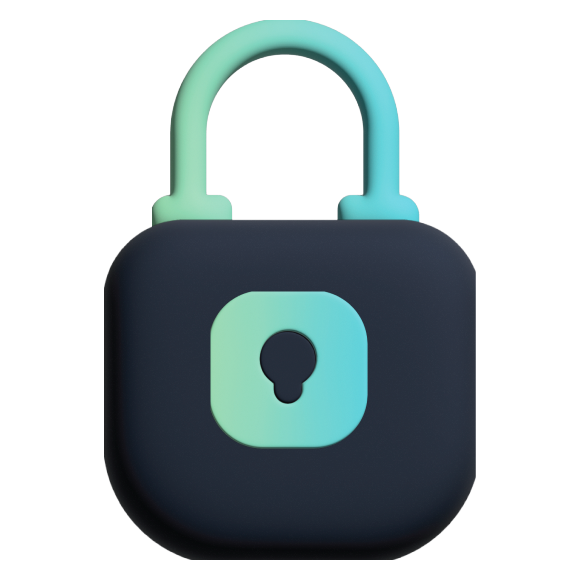
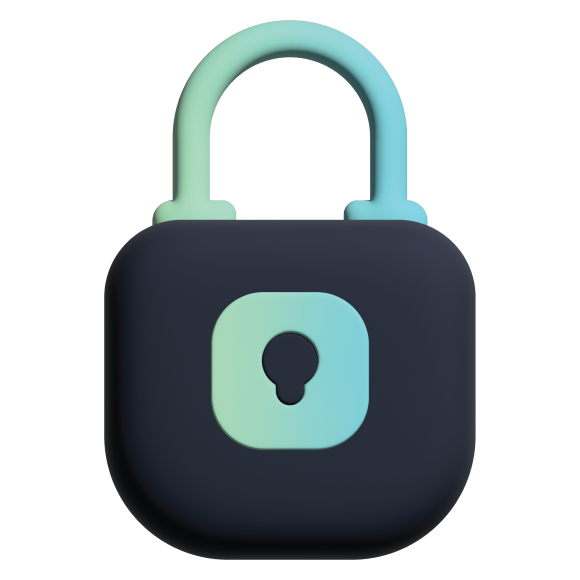
feat(ui): Standardise pages - Credential card details (#316)
* wip: card info rows & json

* fix: replace intro image

* fix: json nested info

* fix: json nested info responsive

* fix: add archive to page footer

* fix: footer background issue

* fix: unit tests errors

* fix: make card type optional

* fix: make card type optional

* fix: buttons color

* fix: sec btn border color

diff --git a/src/ui/components/CardDetailsElements/CardDetails.scss b/src/ui/components/CardDetailsElements/CardDetails.scss
@@ -56,15 +56,6 @@
       width: 100%;
       overflow: hidden;
       white-space: nowrap;
-      --mask: linear-gradient(
-        to right,
-        rgba(var(--ion-color-secondary-rgb)) 0,
-        rgba(var(--ion-color-secondary-rgb)) 85%,
-        rgba(0, 0, 0, 0.5) 90%,
-        rgba(0, 0, 0, 0) 100%
-      );
-      -webkit-mask: var(--mask);
-      mask: var(--mask);
 
       strong {
         text-transform: capitalize;
@@ -72,10 +63,9 @@
       }
     }
 
-    .card-details-json-column,
     .card-details-json-row {
-      width: 100%;
-      overflow: hidden;
+      display: flex;
+      flex-direction: row;
     }
 
     .card-details-attributes-id {
@@ -87,12 +77,18 @@
     }
 
     .card-details-json-nested {
-      margin-top: 1rem;
+      background-color: var(--ion-color-light-grey);
+      padding: 0.45rem 1rem;
 
-      strong {
-        border-left: 2px solid grey;
-        padding-left: 0.35rem;
-        margin-left: 1rem;
+      &:first-of-type {
+        margin-top: 1rem;
+        padding-top: 1rem;
+        border-radius: 1rem 1rem 0 0;
+      }
+
+      &:last-of-type {
+        padding-bottom: 1rem;
+        border-radius: 0 0 1rem 1rem;
       }
     }
 
@@ -113,6 +109,14 @@
         border-radius: 1rem;
         padding: 1.15rem;
 
+        > * {
+          min-height: 1.445rem;
+
+          &:not(:last-child) {
+            margin-bottom: 0.85rem;
+          }
+        }
+
         .card-details-info-block-line {
           display: flex;
 
@@ -120,10 +124,6 @@
             display: flex;
             flex-direction: column;
             justify-content: center;
-          }
-
-          &:not(:last-child) {
-            margin-bottom: 1rem;
           }
 
           .card-details-info-block-text-icon {
@@ -139,6 +139,20 @@
             width: 100%;
             overflow: hidden;
             white-space: nowrap;
+            --mask: linear-gradient(
+              to right,
+              rgba(var(--ion-color-secondary-rgb)) 0,
+              rgba(var(--ion-color-secondary-rgb)) 85%,
+              rgba(0, 0, 0, 0.5) 90%,
+              rgba(0, 0, 0, 0) 100%
+            );
+            -webkit-mask: var(--mask);
+            mask: var(--mask);
+          }
+        }
+
+        > .card-details-json-row {
+          > * {
             --mask: linear-gradient(
               to right,
               rgba(var(--ion-color-secondary-rgb)) 0,
@@ -194,13 +208,15 @@
           border-radius: 0.85rem;
           padding: 0.978rem;
 
-          .card-details-info-block-line {
-            height: 1.445rem;
+          > * {
+            min-height: 1.156rem;
 
             &:not(:last-child) {
-              margin-bottom: 0.85rem;
+              margin-bottom: 0.68rem;
             }
+          }
 
+          .card-details-info-block-line {
             .card-details-info-block-text-icon {
               font-size: 0.956rem;
             }

diff --git a/src/ui/pages/CredCardDetails/CredCardDetails.tsx b/src/ui/pages/CredCardDetails/CredCardDetails.tsx
@@ -58,6 +58,7 @@ import {
 } from "../../components/CardDetailsElements";
 import { CredentialDetails } from "../../../core/agent/services/credentialService.types";
 import "../../components/CardDetailsElements/CardDetails.scss";
+import { PageFooter } from "../../components/PageFooter";
 
 const CredCardDetails = () => {
   const pageId = "credential-card-details";
@@ -334,33 +335,27 @@ const CredCardDetails = () => {
                 />
               )}
             </CardDetailsBlock>
-            <IonButton
-              shape="round"
-              expand="block"
-              color="danger"
-              data-testid="card-details-delete-archive-button"
-              className="delete-button"
-              onClick={() => {
+            <PageFooter
+              pageId={pageId}
+              archiveButtonText={
+                !isArchived
+                  ? `${i18n.t("creds.card.details.button.archive")}`
+                  : ""
+              }
+              archiveButtonAction={() => {
                 setAlertDeleteArchiveIsOpen(true);
-                dispatch(
-                  setCurrentOperation(
-                    isArchived
-                      ? OperationType.DELETE_CREDENTIAL
-                      : OperationType.ARCHIVE_CREDENTIAL
-                  )
-                );
+                dispatch(setCurrentOperation(OperationType.ARCHIVE_CREDENTIAL));
               }}
-            >
-              <IonIcon
-                slot="icon-only"
-                size="small"
-                icon={isArchived ? trashOutline : archiveOutline}
-                color="primary"
-              />
-              {isArchived
-                ? i18n.t("creds.card.details.button.delete")
-                : i18n.t("creds.card.details.button.archive")}
-            </IonButton>
+              deleteButtonText={
+                isArchived
+                  ? `${i18n.t("creds.card.details.button.delete")}`
+                  : ""
+              }
+              deleteButtonAction={() => {
+                setAlertDeleteArchiveIsOpen(true);
+                dispatch(setCurrentOperation(OperationType.DELETE_CREDENTIAL));
+              }}
+            />
           </div>
           <CredsOptions
             optionsIsOpen={optionsIsOpen}

diff --git a/src/ui/components/PageFooter/PageFooter.tsx b/src/ui/components/PageFooter/PageFooter.tsx
@@ -1,5 +1,5 @@
 import { IonButton, IonIcon, IonToolbar } from "@ionic/react";
-import { trashOutline } from "ionicons/icons";
+import { archiveOutline, trashOutline } from "ionicons/icons";
 import { PageFooterProps } from "./PageFooter.types";
 import "./PageFooter.scss";
 
@@ -17,15 +17,15 @@ const PageFooter = ({
   tertiaryButtonText,
   tertiaryButtonAction,
   tertiaryButtonDisabled,
+  archiveButtonText,
+  archiveButtonAction,
+  archiveButtonDisabled,
   deleteButtonText,
   deleteButtonAction,
   deleteButtonDisabled,
 }: PageFooterProps) => {
   return (
-    <IonToolbar
-      color="light"
-      className="page-footer"
-    >
+    <IonToolbar className="page-footer">
       {primaryButtonText && primaryButtonAction && (
         <IonButton
           shape="round"
@@ -86,6 +86,25 @@ const PageFooter = ({
             />
           )}
           {tertiaryButtonText}
+        </IonButton>
+      )}
+      {archiveButtonText && archiveButtonAction && (
+        <IonButton
+          shape="round"
+          expand="block"
+          fill="clear"
+          className="archive-button"
+          data-testid={`archive-button${pageId ? `-${pageId}` : ""}`}
+          onClick={archiveButtonAction}
+          disabled={archiveButtonDisabled}
+        >
+          <IonIcon
+            slot="icon-only"
+            size="small"
+            icon={archiveOutline}
+            color="primary"
+          />
+          {archiveButtonText}
         </IonButton>
       )}
       {deleteButtonText && deleteButtonAction && (

diff --git a/src/ui/styles/style.scss b/src/ui/styles/style.scss
@@ -104,22 +104,27 @@ p {
 }
 
 .primary-button {
-  color: var(--ion-color-primary);
+  --color: var(--ion-color-primary);
   --background: var(--ion-color-primary-gradient);
 }
 
 .secondary-button {
-  color: var(--ion-color-primary);
+  --color: var(--ion-color-primary);
   --background: var(--ion-color-light);
   --border-color: var(--ion-color-dark-grey);
+
+  &::part(native) {
+    border: 1px solid var(--ion-color-dark-grey);
+  }
 }
 
 .tertiary-button {
-  color: var(--ion-color-primary);
+  --color: var(--ion-color-primary);
   --background: transparent;
 }
 
-.delete-button {
+.delete-button,
+.archive-button {
   --color: white;
   --background: var(--ion-color-danger);
 
@@ -132,7 +137,8 @@ p {
 .primary-button,
 .secondary-button,
 .tertiary-button,
-.delete-button {
+.delete-button,
+.archive-button {
   font-size: 1rem;
   height: 3.25rem;
   --background-activated: var(--ion-color-medium-grey);
@@ -146,7 +152,8 @@ p {
   .primary-button,
   .secondary-button,
   .tertiary-button,
-  .delete-button {
+  .delete-button,
+  .archive-button {
     font-size: 0.8rem;
     height: 2.5rem;
     margin: 0 auto 0.8rem;

diff --git a/src/ui/components/CredCardTemplate/CardBodyUniversity.tsx b/src/ui/components/CredCardTemplate/CardBodyUniversity.tsx
@@ -12,14 +12,18 @@ const CardBodyUniversity = ({ cardData }: any) => {
       </div>
       <div className="card-footer">
         <div className="card-footer-column">
-          <span className="card-footer-column-label">
-            {i18n.t("creds.card.layout.type")}
-          </span>
-          <span className="card-footer-column-value">
-            {cardData.cachedDetails?.degreeType
-              ?.replace(/([A-Z][a-z])/g, " $1")
-              .replace(/(\d)/g, " $1")}
-          </span>
+          {cardData.cachedDetails?.degreeType && (
+            <>
+              <span className="card-footer-column-label">
+                {i18n.t("creds.card.layout.type")}
+              </span>
+              <span className="card-footer-column-value">
+                {cardData.cachedDetails?.degreeType
+                  ?.replace(/([A-Z][a-z])/g, " $1")
+                  .replace(/(\d)/g, " $1")}
+              </span>
+            </>
+          )}
         </div>
         <div className="card-footer-column">
           <span className="card-footer-column-label">

diff --git a/src/ui/pages/CredCardDetails/CredCardDetails.test.tsx b/src/ui/pages/CredCardDetails/CredCardDetails.test.tsx
@@ -240,11 +240,11 @@ describe("Cards Details page - current not archived credential", () => {
         </MemoryRouter>
       </Provider>
     );
-    const deleteButton = await findByTestId(
-      "card-details-delete-archive-button"
+    const archiveButton = await findByTestId(
+      "archive-button-credential-card-details"
     );
     act(() => {
-      fireEvent.click(deleteButton);
+      fireEvent.click(archiveButton);
     });
 
     await waitFor(() => {

diff --git a/src/ui/components/PageFooter/PageFooter.types.ts b/src/ui/components/PageFooter/PageFooter.types.ts
@@ -12,6 +12,9 @@ interface PageFooterProps {
   tertiaryButtonText?: string;
   tertiaryButtonAction?: () => void;
   tertiaryButtonDisabled?: boolean;
+  archiveButtonText?: string;
+  archiveButtonAction?: () => void;
+  archiveButtonDisabled?: boolean;
   deleteButtonText?: string;
   deleteButtonAction?: () => void;
   deleteButtonDisabled?: boolean;

diff --git a/src/ui/components/VerifyPasscode/VerifyPasscode.test.tsx b/src/ui/components/VerifyPasscode/VerifyPasscode.test.tsx
@@ -81,7 +81,7 @@ describe("Verify Passcode on Cards Details page", () => {
     );
 
     const archiveButton = await findByTestId(
-      "card-details-delete-archive-button"
+      "archive-button-credential-card-details"
     );
     act(() => {
       fireEvent.click(archiveButton);

diff --git a/src/ui/components/VerifyPassword/VerifyPassword.test.tsx b/src/ui/components/VerifyPassword/VerifyPassword.test.tsx
@@ -104,7 +104,7 @@ describe("Verify Password on Cards Details page", () => {
     );
 
     const archiveButton = await findByTestId(
-      "card-details-delete-archive-button"
+      "archive-button-credential-card-details"
     );
 
     act(() => {

diff --git a/src/ui/components/PageFooter/PageFooter.scss b/src/ui/components/PageFooter/PageFooter.scss
@@ -1,4 +1,6 @@
 .page-footer {
+  --background: transparent;
+
   ion-button {
     margin: 0 auto 1rem;
 
